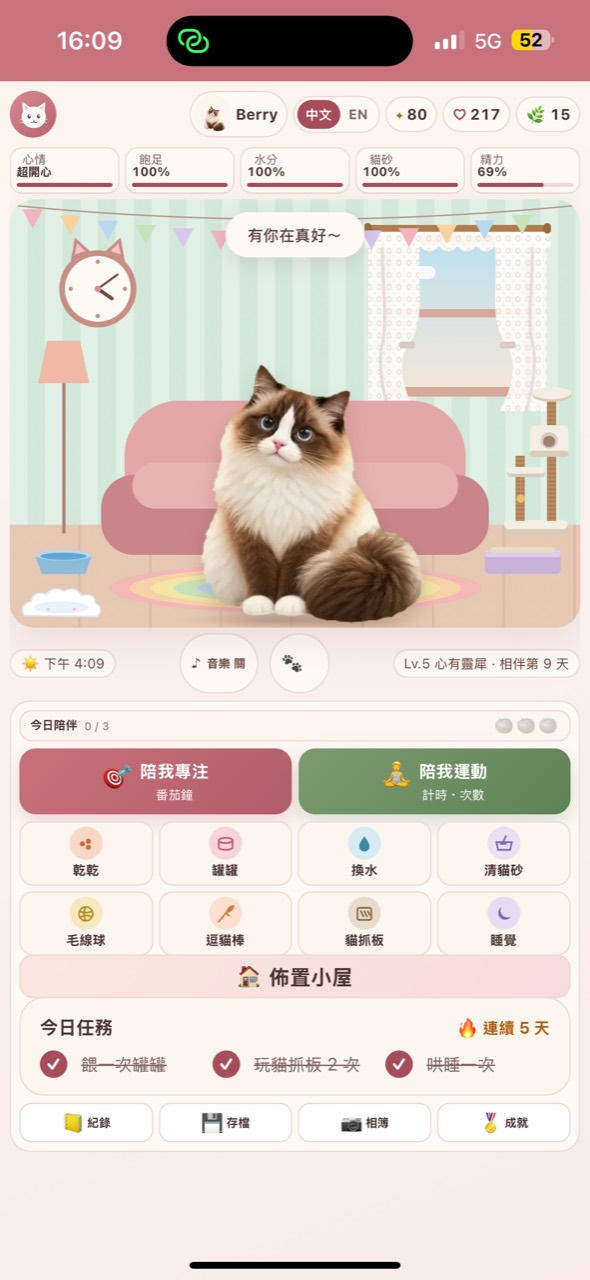
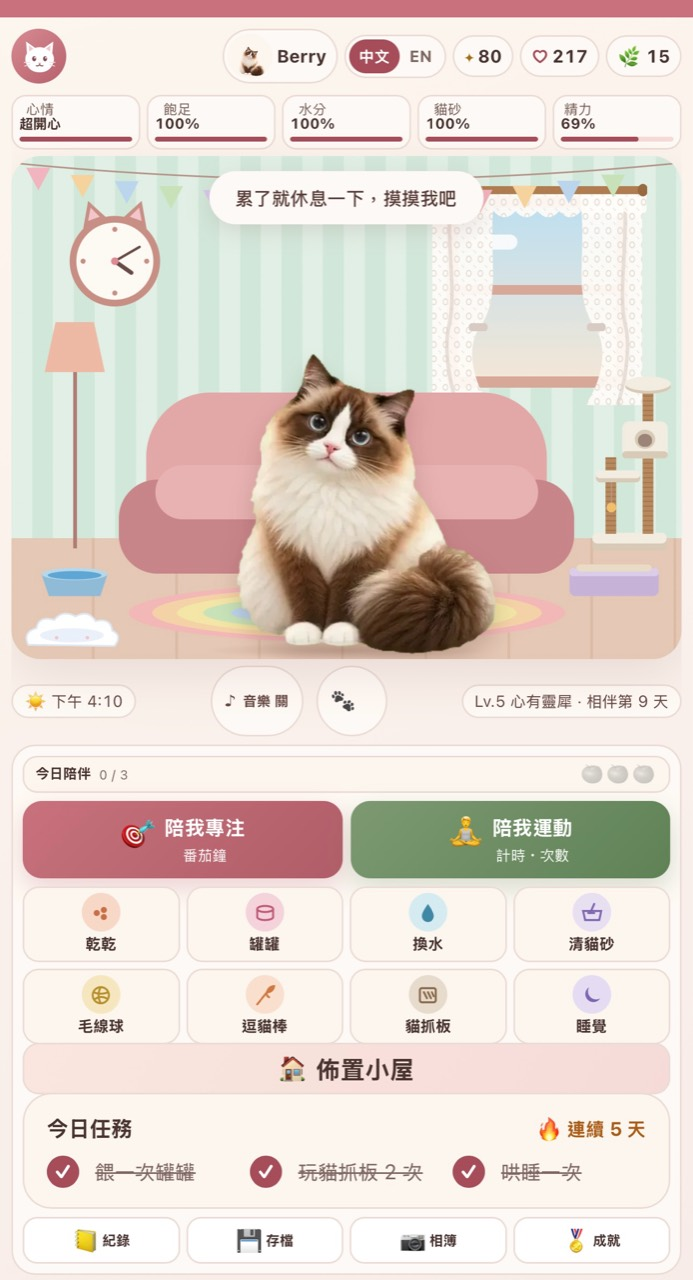
replace FORMECORE Berry article screenshots

diff --git a/site/blog/2026-virtual-pet-focus-apps/index.html b/site/blog/2026-virtual-pet-focus-apps/index.html
@@ -335,8 +335,8 @@
         <div class="best-for">FORMECORE 推薦給：想立刻開始，又不想被習慣 App 催促的人</div>
         <h3>1. FORMECORE × Berry：免下載，把專注和運動放進同一間小屋</h3>
         <div class="shot-pair">
-          <figure class="app-shot"><img src="images/screenshots/formecore-berry-ui.jpg" width="590" height="1280" loading="lazy" alt="FORMECORE × Berry 真實手機畫面，貓咪 Berry 坐在粉紅客廳，畫面包含專注、運動、餵食與每日任務功能"><figcaption>專注、運動、照顧和每日任務都集中在同一頁。</figcaption></figure>
-          <figure class="app-shot"><img src="images/screenshots/formecore-berry-room-decor.jpg" width="590" height="1280" loading="lazy" alt="FORMECORE × Berry 佈置小屋後的真實手機畫面，客廳換上綠色牆紙、窗簾、掛鐘、彩旗、地毯與貓跳台"><figcaption>同一間小屋可以換上牆紙、窗簾、掛鐘、彩旗、地毯和貓跳台。</figcaption></figure>
+          <figure class="app-shot"><img src="images/screenshots/formecore-berry-ui.jpg" width="681" height="1280" loading="lazy" alt="FORMECORE × Berry 真實手機畫面，貓咪 Berry 坐在粉紅客廳，畫面包含專注、運動、餵食與每日任務功能"><figcaption>專注、運動、照顧和每日任務都集中在同一頁。</figcaption></figure>
+          <figure class="app-shot"><img src="images/screenshots/formecore-berry-room-decor.jpg" width="693" height="1280" loading="lazy" alt="FORMECORE × Berry 佈置小屋後的真實手機畫面，客廳換上綠色牆紙、窗簾、掛鐘、彩旗、地毯與貓跳台"><figcaption>同一間小屋可以換上牆紙、窗簾、掛鐘、彩旗、地毯和貓跳台。</figcaption></figure>
         </div>
         <p>打開 FORMECORE × Berry 就能開始。選 25/5、50/10、15/3 或自訂時間，不必安裝，也不必先交出信箱。完成一次專注或運動後，Berry 會帶小禮物回來，陪伴點數、寶物和回憶也會慢慢留在這間小屋裡。</p>
         <p>除了計時，你還可以用倒數、計時或手動次數記錄運動，再回來餵食、摸摸或陪 Berry 玩。小屋也能自己佈置，牆紙、窗簾、掛鐘、地毯和貓跳台會讓每次回來多一點變化。專注、活動紀錄和養成在同一頁，少切換一個 App，用起來更順手。</p>
